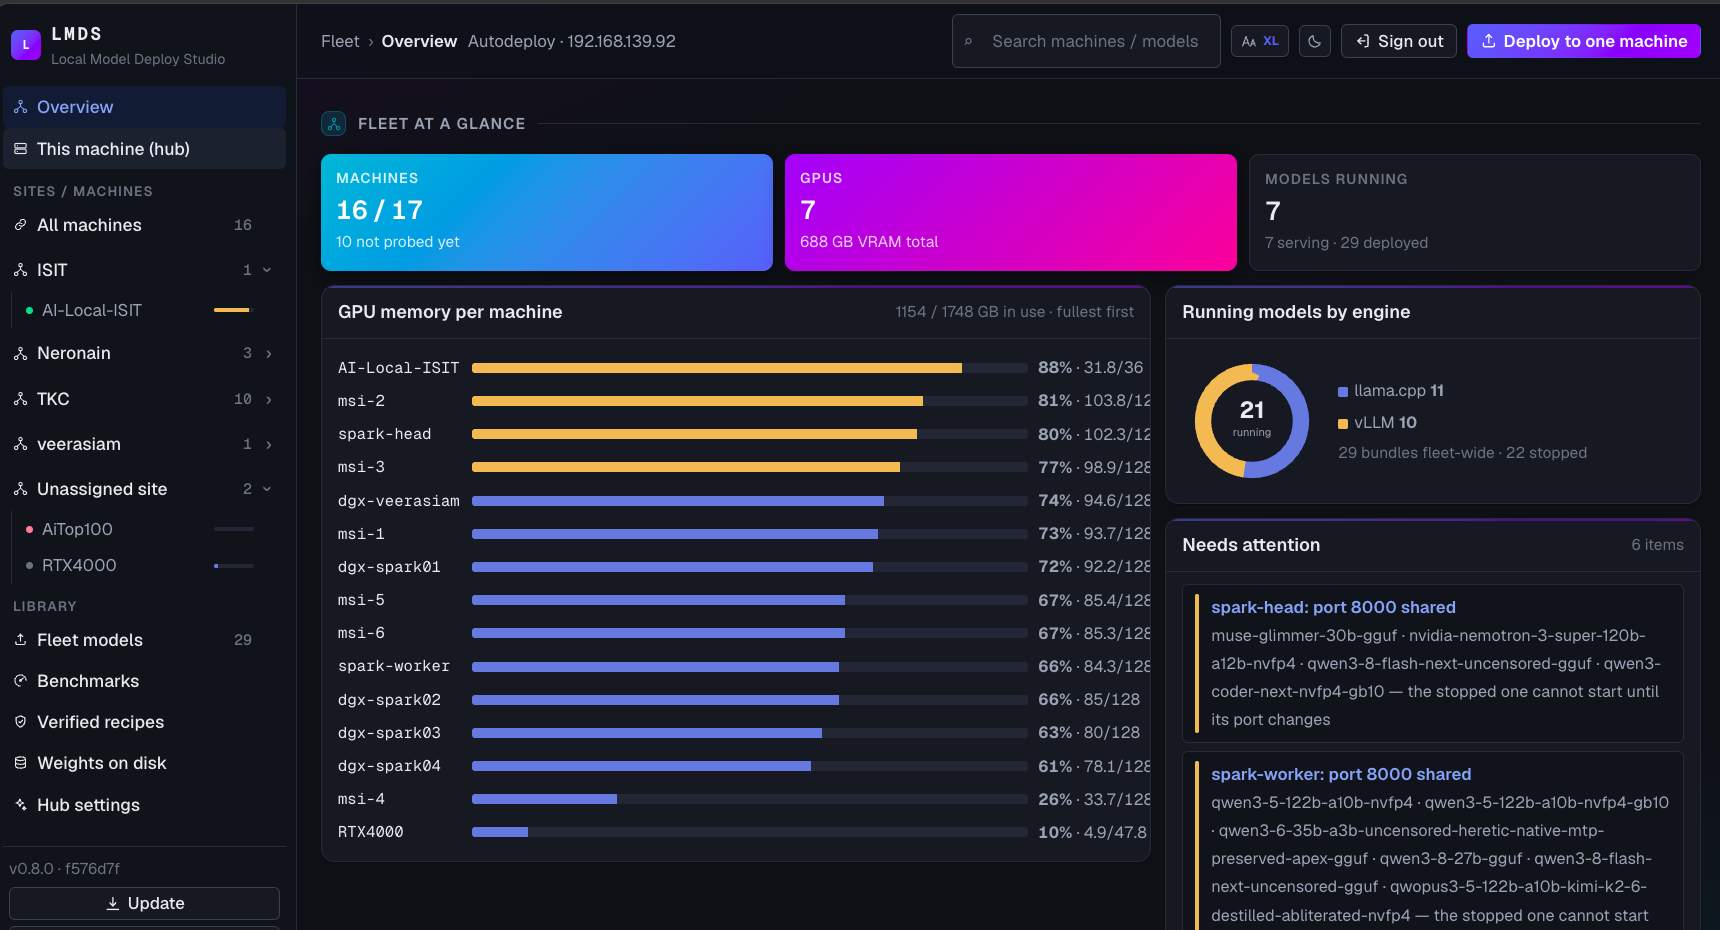
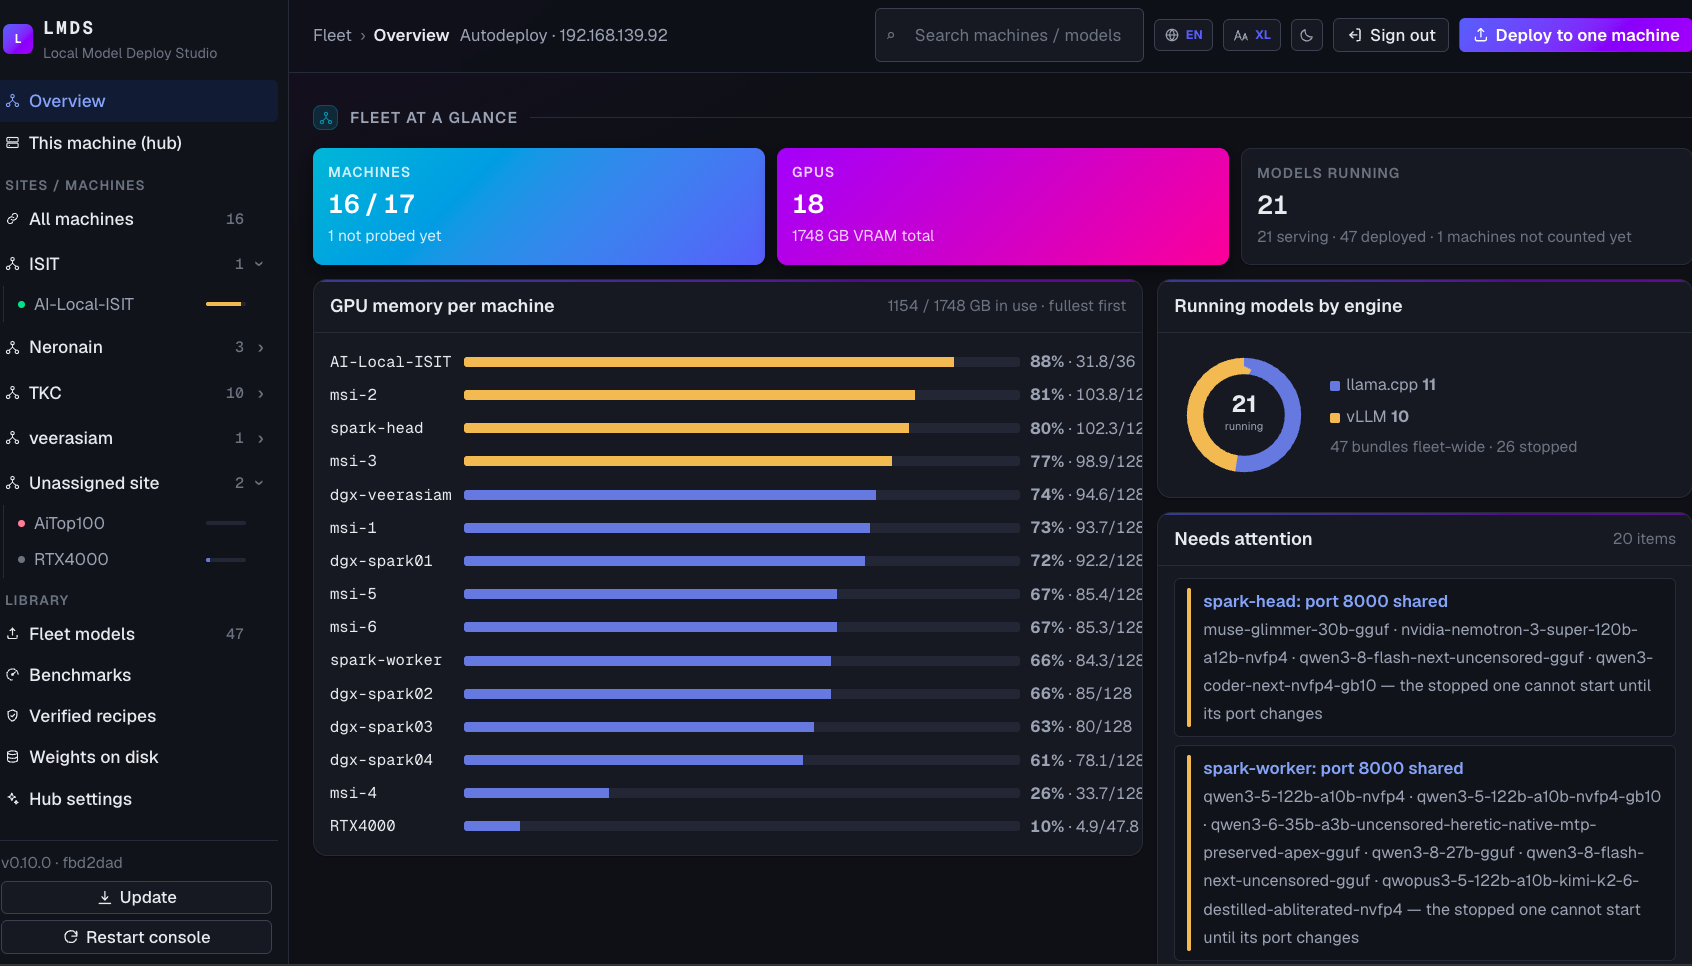
docs: ถ่ายภาพหน้าจอใหม่ — และ "1 machines" เป็นเอกพจน์
`fleet.png` กับ `machine.png` เก่าขึ้นชิปเวอร์ชัน `v0.8.0 · f576d7f` ขณะที่ badge บอก 0.10.0
และ `machine.png` แถวปุ่มยังไม่มี **Rename host** ซึ่งเป็นฟีเจอร์ที่เพิ่งปล่อย — ภาพใหม่มีครบ

ภาพใหม่ยังยืนยันสองอย่างที่เพิ่งแก้ไปว่าทำงานจริงบนฟลีตจริง:

- โดนัทบอก **21 running** และบรรทัดข้าง ๆ บอก **47 bundles · 26 stopped** — **บวกกันลงแล้ว**
  (ภาพเก่าคือ 21 running กับ "29 fleet-wide · 22 stopped" ซึ่ง 21 + 22 = 43 ≠ 29)
- ไทล์ Models running ขึ้น "…· 1 machine not counted yet" ตอนที่ยังมีเครื่อง probe ไม่ทัน

**และภาพใหม่ก็จับบั๊กของตัวเองได้ทันที**: สตริงนั้นเขียนว่า "1 machin**es**" · เอกพจน์/พหูพจน์
แยกคีย์เหมือนที่รางซ้ายทำอยู่แล้ว (`{n} machine` / `{n} machines`) — และ `pending = 1` คือค่าที่
พบบ่อยที่สุด เพราะปกติจะมีเครื่องเดียวที่ probe ไม่ทันในแต่ละรอบ

คำบรรยายทั้งสองภาษาเขียนใหม่จากสิ่งที่อยู่ในภาพจริง — ตัวเลขในภาพคือ 16/17 เครื่อง · 18 GPU ·
1,748 GB VRAM · 47 bundle · รัน 21 (ของเดิมเขียนไว้ 16 เครื่อง · 7 GPU · 688 GB · 29 bundle)

`model-scores.png` ยังเป็นใบเดิม — ข้อมูลในนั้นวัดเมื่อ 2026-09-21 02:20 ยังตรงอยู่

diff --git a/src/lmds/web/static/index.html b/src/lmds/web/static/index.html
@@ -1101,6 +1101,8 @@ body.rail-dragging { cursor: col-resize; user-select: none; }
     "{healthy} serving · {total} deployed": "เสิร์ฟอยู่ {healthy} · deploy ไว้ {total}",
     "{healthy} serving · {total} deployed · {n} machines not counted yet":
       "เสิร์ฟอยู่ {healthy} · deploy ไว้ {total} · ยังไม่ได้นับอีก {n} เครื่อง",
+    "{healthy} serving · {total} deployed · {n} machine not counted yet":
+      "เสิร์ฟอยู่ {healthy} · deploy ไว้ {total} · ยังไม่ได้นับอีก {n} เครื่อง",
     "GPU memory per machine": "หน่วยความจำ GPU ต่อเครื่อง",
     "{used} / {cap} GB in use · fullest first": "ใช้ไป {used} / {cap} GB · เต็มสุดขึ้นก่อน",
     "No machine data yet": "ยังไม่มีข้อมูลเครื่อง",
@@ -1953,7 +1955,10 @@ function renderFleetSummary(s) {
       s.vram_gb ? T("{gb} GB VRAM total", { gb: s.vram_gb }) : T("known so far"), "", "warm"),
     statCard(T("Models running"), String(s.models_running),
       s.pending
-        ? T("{healthy} serving · {total} deployed · {n} machines not counted yet",
+        // เอกพจน์/พหูพจน์แยกคีย์เหมือนที่รางซ้ายทำอยู่ — "1 machines" อ่านแล้วสะดุด
+        // และเป็นจุดที่คนมองบ่อยที่สุดจุดหนึ่งของหน้า
+        ? T(s.pending === 1 ? "{healthy} serving · {total} deployed · {n} machine not counted yet"
+                            : "{healthy} serving · {total} deployed · {n} machines not counted yet",
             { healthy: s.models_healthy, total: s.models_total, n: s.pending })
         : T("{healthy} serving · {total} deployed", { healthy: s.models_healthy, total: s.models_total })),
   ].join("");

diff --git a/tests/test_overview_counts_dom.py b/tests/test_overview_counts_dom.py
@@ -67,7 +67,9 @@ def test_a_fleet_wide_total_says_when_it_is_still_incomplete(tmp_path):
         await H.tick(20);
         console.log(JSON.stringify({ tiles: tiles(), errors: H.errors }));
     """)
-    assert "1 machines not counted yet" in out["tiles"], out["tiles"]
+    # เอกพจน์ — "1 machines" อ่านแล้วสะดุด และนี่คือค่าที่พบบ่อยที่สุด (เครื่องเดียวที่ probe ไม่ทัน)
+    assert "1 machine not counted yet" in out["tiles"], out["tiles"]
+    assert "1 machines" not in out["tiles"]
 
 
 def test_a_fully_probed_fleet_does_not_get_the_caveat(tmp_path):
@@ -94,3 +96,11 @@ def test_a_fleet_with_no_data_yet_shows_no_invented_total(tmp_path):
     """)
     assert "bundles fleet-wide" not in out["text"]
     assert out["errors"] == []
+
+
+def test_more_than_one_uncounted_machine_reads_as_plural(tmp_path):
+    (out,) = run_scenario(tmp_path, FLEET.replace("pending: 1", "pending: 3"), PROBE + """
+        await H.tick(20);
+        console.log(JSON.stringify({ tiles: tiles(), errors: H.errors }));
+    """)
+    assert "3 machines not counted yet" in out["tiles"], out["tiles"]

diff --git a/README.en.md b/README.en.md
@@ -8,7 +8,7 @@ Deploy language models to **NVIDIA DGX Spark** and **Ubuntu + RTX**, one machine
 several acting as one. Nothing leaves the machine except what you ask for.
 
 [![version](https://img.shields.io/badge/version-0.10.0-1f5fbf)](CHANGELOG.md)
-[![tests](https://img.shields.io/badge/tests-2444-17703f)](tests/)
+[![tests](https://img.shields.io/badge/tests-2445-17703f)](tests/)
 [![platform](https://img.shields.io/badge/platform-Ubuntu%2022.04%20%7C%2024.04%20%7C%2025.04-555)](docs/INSTALL.md)
 [![arch](https://img.shields.io/badge/arch-ARM64%20%C2%B7%20x86__64-555)](docs/INSTALL.md)
 [![python](https://img.shields.io/badge/python-3.10--3.13-3776ab)](pyproject.toml)
@@ -41,10 +41,11 @@ Built and maintained by **neronain** — [facebook.com/neronain.minidev](https:/
 
 <img src="docs/img/fleet.png" alt="Overview — the whole fleet on one page" width="900">
 
-*The Overview page: 16 machines · 7 GPUs · 688 GB VRAM · 29 bundles fleet-wide — a memory bar per
-machine sorted fullest first, an engine donut, and a **Needs attention** list computed from real
-state (here: two machines have several models claiming port 8000, so the stopped ones cannot start
-until the port changes).*
+*The Overview page: 16 of 17 machines · 18 GPUs · 1,748 GB VRAM · 47 bundles fleet-wide, 21 running
+— a memory bar per machine sorted fullest first, an engine donut, and a **Needs attention** list
+computed from real state (here: two machines have several models claiming port 8000, so the stopped
+ones cannot start until the port changes). The tile says so itself when one machine has not been
+probed yet: a fleet-wide total has to admit when it is still incomplete.*
 
 </div>
 
@@ -166,7 +167,9 @@ for the whole fleet — **and models on other machines are controlled exactly li
 *Click any machine and its detail opens in place — the same CPU / Unified / Disk gauges on every
 machine, the GB10 with its Graphics/SM clocks and temperature, every IP the machine actually holds,
 the **200G RDMA** fabric and the `CLUSTER A` frame around the pair it can stack with. Values the
-card does not report are hidden, not shown as 0.*
+card does not report are hidden, not shown as 0. The button row carries **Rename host**, which
+changes that machine's OS hostname from here — machines already shipped to a site that turn out to
+share a name are usually reachable on port 8600 and nothing else.*
 
 </div>
 
@@ -395,7 +398,7 @@ our repositories.
 | MTP / speculative | ✅ draft head from the repo | via `--extra-args` | via `--extra-args` |
 
 Hardware-validated across all five model families — GGUF, NVFP4, MoE, dense safetensors, gated
-repos · **24 target presets** (7 verified on real hardware) · **2,444 tests** on every push across
+repos · **24 target presets** (7 verified on real hardware) · **2,445 tests** on every push across
 Python 3.10–3.13
 
 **MoE and MTP are reported as facts read from files**, not guessed by an LLM — total and active

diff --git a/docs/CLI_SPEC.md b/docs/CLI_SPEC.md
@@ -529,7 +529,7 @@ src/lmds/
 │                        #   scriptedit.py, selfupdate.py, keysapi.py (key ของโมเดล + /api/audit), audit.py (middleware log),
 │                        #   fit.py, logstream.py, static/index.html (i18n en/th) + static/fonts/ (Geist)
 └── _build.py            # COMMIT/SOURCE ที่ install.sh ประทับ
-tests/                   # 149 ไฟล์ test_*.py · 2,444 เทส (unit + E2E + review/audit + JS shell ใน node) · addopts = -q
+tests/                   # 149 ไฟล์ test_*.py · 2,445 เทส (unit + E2E + review/audit + JS shell ใน node) · addopts = -q
                          #   นับด้วย pytest --collect-only ที่ 0.10.0 (2026-09-21) — ตรงกับป้ายใน README
 .github/workflows/ci.yml # pytest 3.10/3.11/3.12/3.13 + ruff check + bash -n/shellcheck + secret scan
 ```

diff --git a/CONTRIBUTING.md b/CONTRIBUTING.md
@@ -36,7 +36,7 @@ pytest
 ## รันเทส
 
 ```bash
-pytest                      # ทั้งหมด (2,444 เทส · 149 ไฟล์)
+pytest                      # ทั้งหมด (2,445 เทส · 149 ไฟล์)
 pytest tests/test_brain.py  # เฉพาะไฟล์
 pytest -k stacked           # เฉพาะที่ชื่อตรง
 pytest -v -rA -k embed      # อยากเห็นชื่อเทส/ผลทีละข้อ — pyproject ตั้ง addopts = "-q" ไว้ ผลปกติจึงเงียบ
